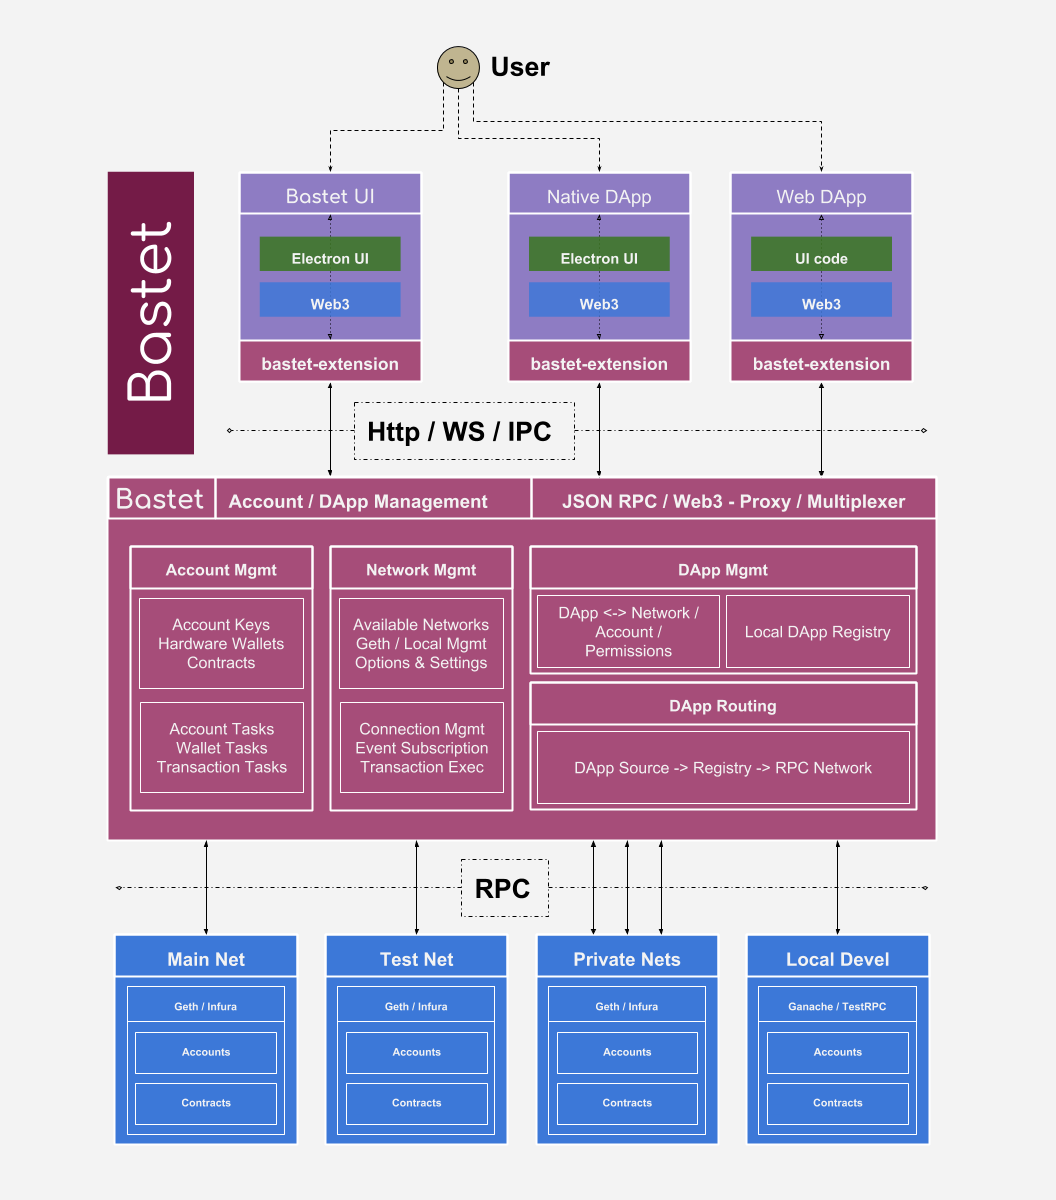
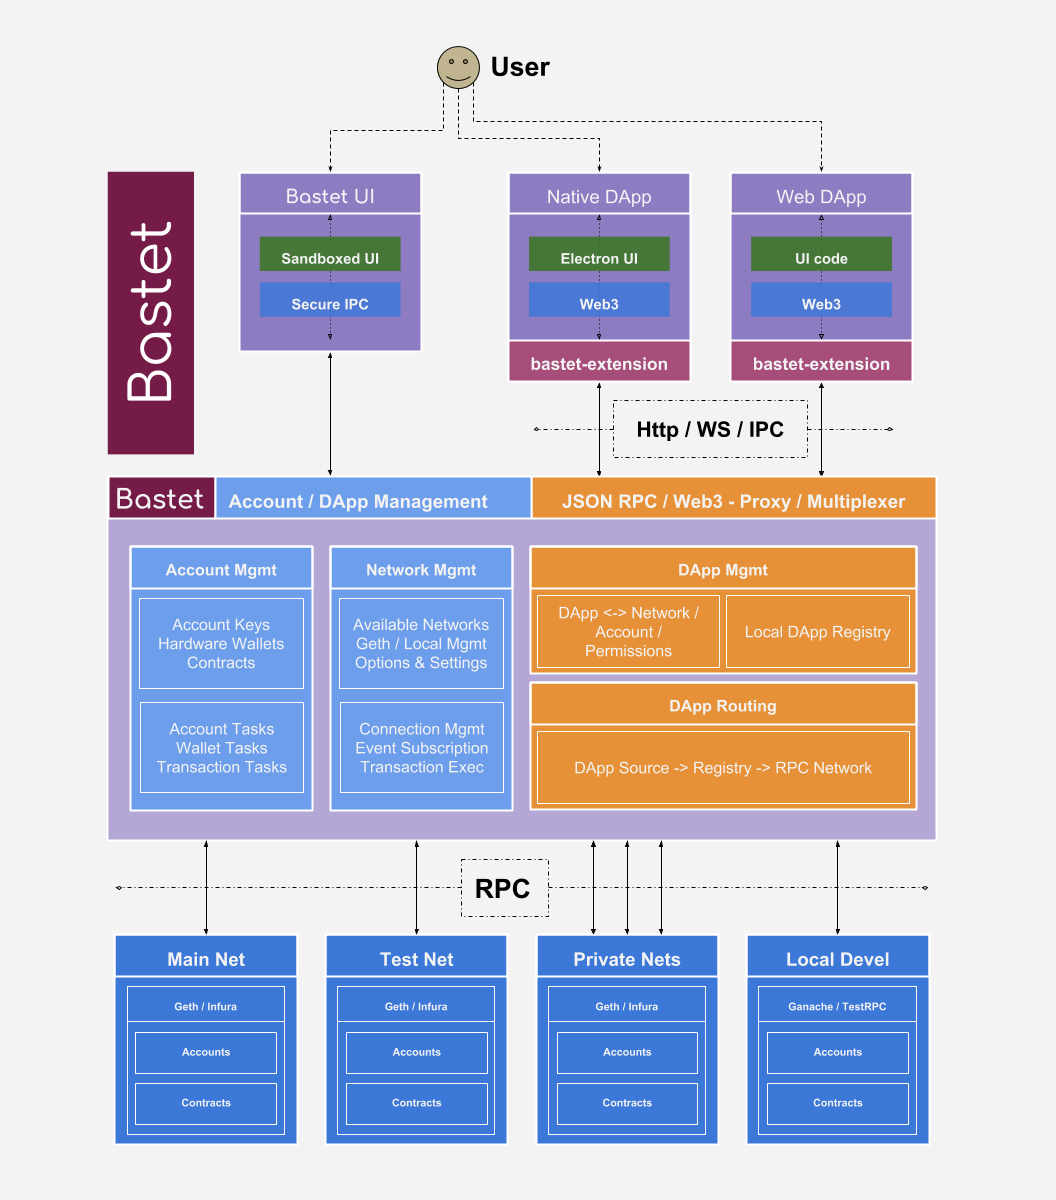
add internals diagram, update high level

Changed region(s): [[0.0938, 0.2158, 0.9062, 0.7092]]

diff --git a/grants/Bastet/Design.md b/grants/Bastet/Design.md
@@ -11,6 +11,11 @@ Bastet consists of three components:
 ![Design Diagram](https://github.com/verdverm/nest/raw/master/grants/Bastet/bastet--high-level.png)
 
 
+#### Internals Diagram:
+
+![Design Diagram](https://github.com/verdverm/nest/raw/master/grants/Bastet/bastet--internals.png)
+
+
 ### Components
 
 #### 1. Bastet Application
@@ -84,17 +89,27 @@ Technologies:
 
 
 
-### Further considerations
+### Further Considerations
+
+Similar Projects:
+
+- [GitHub - floating/frame: A cross-platform Ethereum provider interface](https://github.com/floating/frame)
+
+Radspec: 
+- [GitHub - aragon/radspec: 🤘 Radspec is a safe alternative to Ethereum's natspec](https://github.com/aragon/radspec)
+- will need to contribute to this project as well
+
+Security:
 
 - How to have verified / approved DApps for the user?
+    - How do DApps identify themselves on connection?
+    - Can we inspect the request hostname? maybe grab the html for title / description (in-browser only?)
+    - Radspec?
+    - uPort / Signal?
 - How to secure inter-DApp / Bastet communication?
-    - Data in-flight should be encrypted as well
-    - Https sites __are__ allowed to talk to `127.0.0.1`
-    - i.e. we need TLS between the DApp and OS-Signer
-    - but... browsers may barf on a self-signed cert
-    - Other local applications _should_ be easier to manage in this regard
-
-- [Electron Security PDF](https://www.blackhat.com/docs/us-17/thursday/us-17-Carettoni-Electronegativity-A-Study-Of-Electron-Security-wp.pdf)
-- [Electron + MetaMask = Secure, Easy to Use Dapps 🔒 – Aragon](https://blog.aragon.one/electron-metamask-secure-easy-to-use-dapps-5a9987d21034)
-- [How Aragon approaches identity and the Ethereum Keybase Resolver](https://blog.aragon.one/how-aragon-approaches-identity-and-the-ethereum-keybase-resolver-d548133e4a26)
-- [uPort: Self-Sovereign Identity](https://www.uport.me/)
+    - [GitHub - MichaelVasseur/electron-ipc-bus: An IPC bus for Electron.](https://github.com/MichaelVasseur/electron-ipc-bus)
+- More security related links:
+    - [Electron Security PDF](https://www.blackhat.com/docs/us-17/thursday/us-17-Carettoni-Electronegativity-A-Study-Of-Electron-Security-wp.pdf)
+    - [Electron + MetaMask = Secure, Easy to Use Dapps 🔒 – Aragon](https://blog.aragon.one/electron-metamask-secure-easy-to-use-dapps-5a9987d21034)
+    - [How Aragon approaches identity and the Ethereum Keybase Resolver](https://blog.aragon.one/how-aragon-approaches-identity-and-the-ethereum-keybase-resolver-d548133e4a26)
+    - [uPort: Self-Sovereign Identity](https://www.uport.me/)
